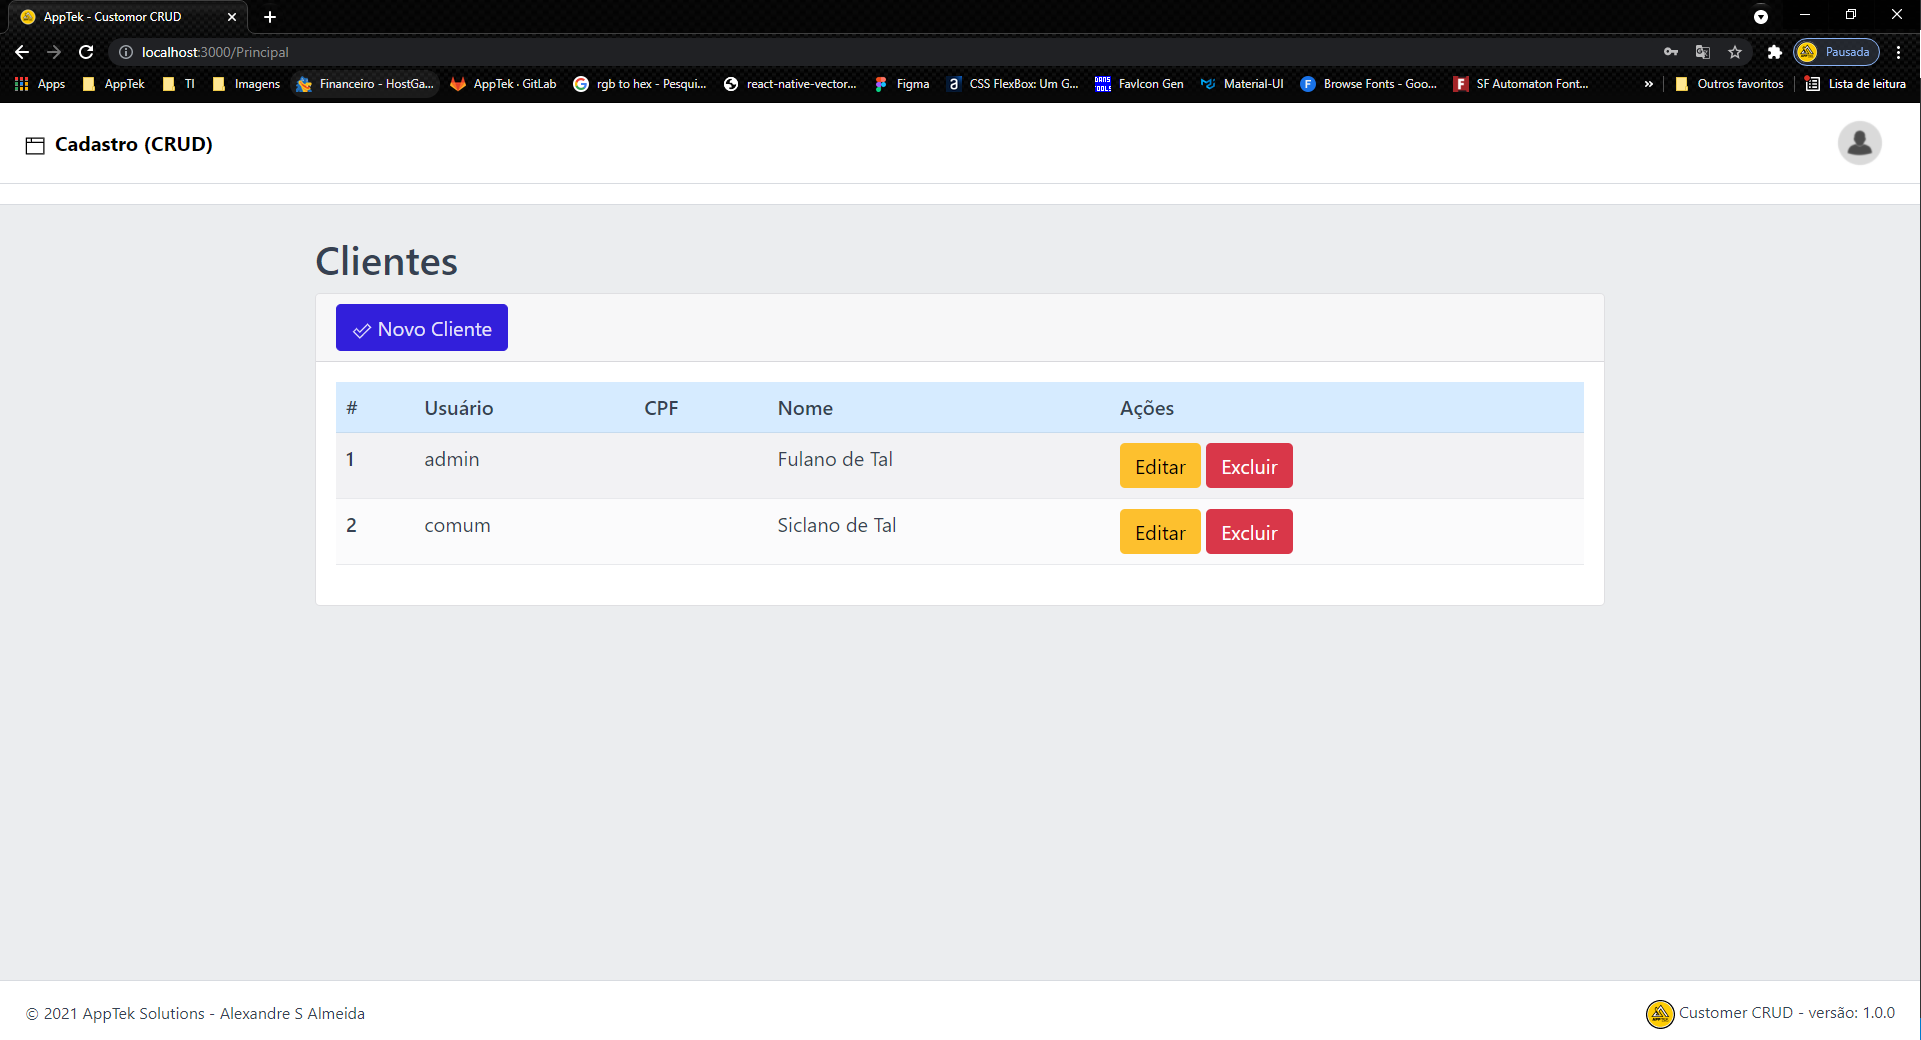
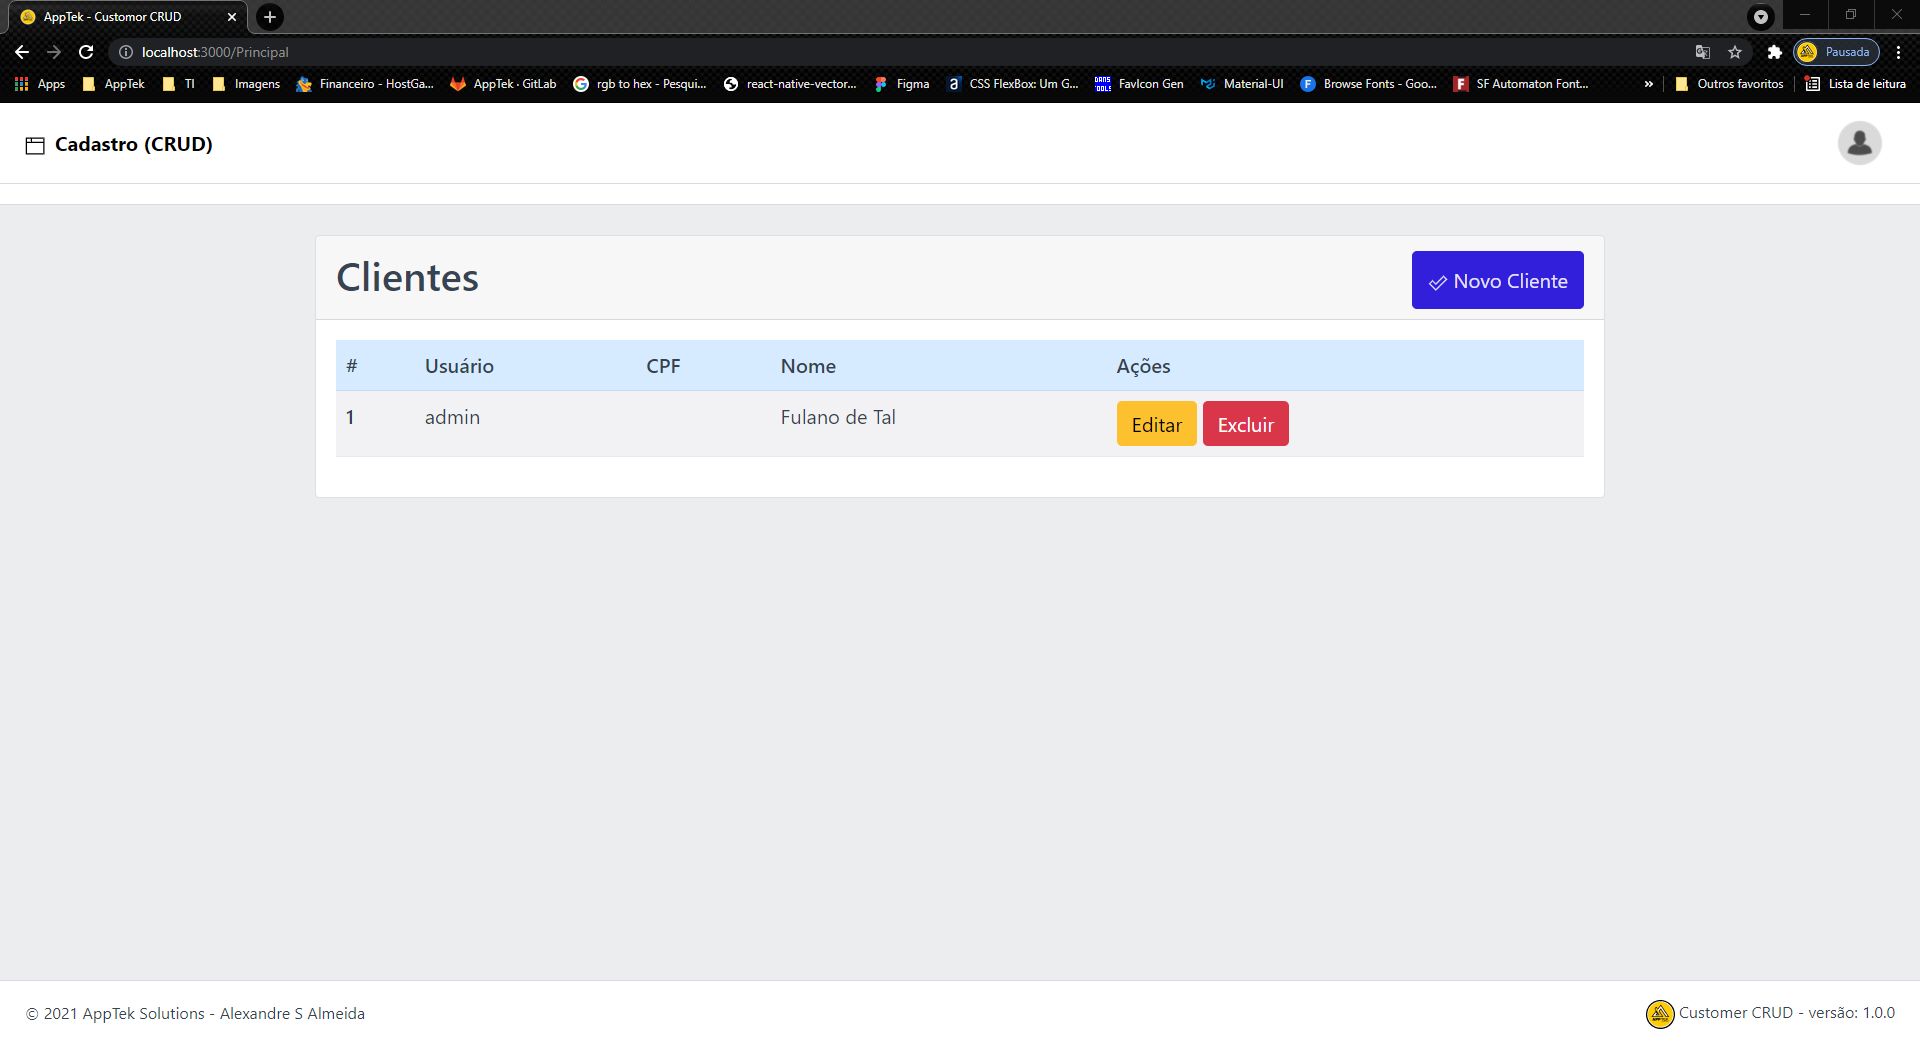
readme screen views project

diff --git a/src/views/principal/Principal.js b/src/views/principal/Principal.js
@@ -43,7 +43,9 @@ const Principal = (prop) => {
   const [loading, setLoading] = useState(false)
   const [msg, setMsg] = useState('')
   const [activeKey, setActiveKey] = useState(0)
-  const [validated, setValidated] = React.useState(false)
+  const [validated, setValidated] = useState(false)
+
+  const [action, setAction] = useState('list')
 
   const [user, setUser] = useState('')
   const [cpf, setCpf] = useState('')
@@ -160,164 +162,171 @@ const Principal = (prop) => {
           </CCard>
         </CCol>
       </CRow>
-      <br></br>
-      <CCard>
-        <CCardHeader
-          style={{ color: '#321FDB', fontWeight: 'bold', paddingTop: 20, paddingBottom: 17 }}
-        >
-          <CIcon name="cil-note-add" />
-          &nbsp; Informe os dados abaixo para inclusão de novo cliente
-        </CCardHeader>
-      </CCard>
 
-      <CAccordion>
-        <CAccordionItem>
-          <CAccordionHeader>
-            <CAccordionButton
-              collapsed={activeKey !== 1}
-              onClick={() => (activeKey === 1 ? setActiveKey(0) : setActiveKey(1))}
-            >
-              Dados Pessoais
-            </CAccordionButton>
-          </CAccordionHeader>
-          <CAccordionCollapse visible={activeKey === 1}>
-            <CAccordionBody>
-              <CForm
-                className="row g-3"
-                noValidate
-                validated={validated}
-                style={{
-                  display: 'flex',
-                  justifyContent: 'center',
-                  alignItems: 'center',
-                }}
-                onSubmit={handleSaveData}
+      {action === 'add' ||
+        (action === 'del' && (
+          <>
+            <br></br>
+            <CCard>
+              <CCardHeader
+                style={{ color: '#321FDB', fontWeight: 'bold', paddingTop: 20, paddingBottom: 17 }}
               >
-                <CCol md="4">
-                  <CFormLabel htmlFor="inputUsuario">Usuário</CFormLabel>
-                  <CInputGroup className="mb-3">
-                    <CInputGroupText>
-                      <CIcon name="cil-short-text" />
-                    </CInputGroupText>
-                    <CFormControl
-                      type="text"
-                      id="inputUsuario"
-                      placeholder="Informe o usuário"
-                      value={user}
-                      onChange={(e) => setUser(e.target.value)}
-                      required
-                    />
-                    <CFormFeedback invalid>Informe o Usuário</CFormFeedback>
-                  </CInputGroup>
-                </CCol>
-                <CCol md="4">
-                  <CFormLabel htmlFor="inputCpf">CPF</CFormLabel>
-                  <CInputGroup className="mb-3">
-                    <CInputGroupText>
-                      <CIcon name="cil-lock-locked" />
-                    </CInputGroupText>
-                    <CFormControl
-                      type="text"
-                      id="inputCpf"
-                      placeholder="Informe o CPF"
-                      value={cpf}
-                      onChange={(e) => setCpf(e.target.value)}
-                      required
-                    />
-                    <CFormFeedback invalid>Informe o CPF</CFormFeedback>
-                  </CInputGroup>
-                </CCol>
-                <CCol md="4">
-                  <CFormLabel htmlFor="inputRole">Perfil</CFormLabel>
-                  <CInputGroup className="mb-3">
-                    <CInputGroupText>
-                      <CIcon name="cil-user" />
-                    </CInputGroupText>
-                    <CFormSelect id="inputRole">
-                      <option>ADMIN</option>
-                      <option>COMUM</option>
-                    </CFormSelect>
-                  </CInputGroup>
-                </CCol>
-                <CCol xs="12">
-                  <CFormLabel htmlFor="inputNome">Nome</CFormLabel>
-                  <CInputGroup className="mb-3">
-                    <CInputGroupText>
-                      <CIcon name="cil-user" />
-                    </CInputGroupText>
-                    <CFormControl id="inputNome" placeholder="Pedro Paulo Matheus Jr..." />
-                  </CInputGroup>
-                </CCol>
-              </CForm>
-            </CAccordionBody>
-          </CAccordionCollapse>
-        </CAccordionItem>
-        <CAccordionItem>
-          <CAccordionHeader>
-            <CAccordionButton
-              collapsed={activeKey !== 2}
-              onClick={() => (activeKey === 2 ? setActiveKey(0) : setActiveKey(2))}
-            >
-              Endereços
-            </CAccordionButton>
-          </CAccordionHeader>
-          <CAccordionCollapse visible={activeKey === 2}>
-            <CAccordionBody>endereços aqui</CAccordionBody>
-          </CAccordionCollapse>
-        </CAccordionItem>
-        <CAccordionItem>
-          <CAccordionHeader>
-            <CAccordionButton
-              collapsed={activeKey !== 3}
-              onClick={() => (activeKey === 3 ? setActiveKey(0) : setActiveKey(3))}
-            >
-              Telefones
-            </CAccordionButton>
-          </CAccordionHeader>
-          <CAccordionCollapse visible={activeKey === 3}>
-            <CAccordionBody>telefones aqui</CAccordionBody>
-          </CAccordionCollapse>
-        </CAccordionItem>
-        <CAccordionItem>
-          <CAccordionHeader>
-            <CAccordionButton
-              collapsed={activeKey !== 3}
-              onClick={() => (activeKey === 3 ? setActiveKey(0) : setActiveKey(3))}
-            >
-              Emails
-            </CAccordionButton>
-          </CAccordionHeader>
-          <CAccordionCollapse visible={activeKey === 3}>
-            <CAccordionBody>
-              <strong>This is the third item`s accordion body.</strong> It is hidden by default,
-              until the collapse plugin adds the appropriate classes that we use to style each
-              element. These classes control the overall appearance, as well as the showing and
-              hiding via CSS transitions. You can modify any of this with custom CSS or overriding
-              our default variables. It´s also worth noting that just about any HTML can go within
-              the <code>.accordion-body</code>, though the transition does limit overflow.
-            </CAccordionBody>
-          </CAccordionCollapse>
-        </CAccordionItem>
-      </CAccordion>
+                <CIcon name="cil-note-add" />
+                &nbsp; Informe os dados abaixo para inclusão de novo cliente
+              </CCardHeader>
+            </CCard>
 
-      <CFooter
-        style={{
-          display: 'flex',
-          flexDirection: 'row',
-          justifyContent: 'space-between',
-          backgroundColor: '#394fbd',
-        }}
-      >
-        <CButton
-          color="primary"
-          className="px-4"
-          style={{ backgroundColor: '#203ABD' }}
-          onClick={handleSaveData}
-        >
-          Gravar Dados
-        </CButton>
-      </CFooter>
-      <br></br>
+            <CAccordion>
+              <CAccordionItem>
+                <CAccordionHeader>
+                  <CAccordionButton
+                    collapsed={activeKey !== 1}
+                    onClick={() => (activeKey === 1 ? setActiveKey(0) : setActiveKey(1))}
+                  >
+                    Dados Pessoais
+                  </CAccordionButton>
+                </CAccordionHeader>
+                <CAccordionCollapse visible={activeKey === 1}>
+                  <CAccordionBody>
+                    <CForm
+                      className="row g-3"
+                      noValidate
+                      validated={validated}
+                      style={{
+                        display: 'flex',
+                        justifyContent: 'center',
+                        alignItems: 'center',
+                      }}
+                      onSubmit={handleSaveData}
+                    >
+                      <CCol md="4">
+                        <CFormLabel htmlFor="inputUsuario">Usuário</CFormLabel>
+                        <CInputGroup className="mb-3">
+                          <CInputGroupText>
+                            <CIcon name="cil-short-text" />
+                          </CInputGroupText>
+                          <CFormControl
+                            type="text"
+                            id="inputUsuario"
+                            placeholder="Informe o usuário"
+                            value={user}
+                            onChange={(e) => setUser(e.target.value)}
+                            required
+                          />
+                          <CFormFeedback invalid>Informe o Usuário</CFormFeedback>
+                        </CInputGroup>
+                      </CCol>
+                      <CCol md="4">
+                        <CFormLabel htmlFor="inputCpf">CPF</CFormLabel>
+                        <CInputGroup className="mb-3">
+                          <CInputGroupText>
+                            <CIcon name="cil-lock-locked" />
+                          </CInputGroupText>
+                          <CFormControl
+                            type="text"
+                            id="inputCpf"
+                            placeholder="Informe o CPF"
+                            value={cpf}
+                            onChange={(e) => setCpf(e.target.value)}
+                            required
+                          />
+                          <CFormFeedback invalid>Informe o CPF</CFormFeedback>
+                        </CInputGroup>
+                      </CCol>
+                      <CCol md="4">
+                        <CFormLabel htmlFor="inputRole">Perfil</CFormLabel>
+                        <CInputGroup className="mb-3">
+                          <CInputGroupText>
+                            <CIcon name="cil-user" />
+                          </CInputGroupText>
+                          <CFormSelect id="inputRole">
+                            <option>ADMIN</option>
+                            <option>COMUM</option>
+                          </CFormSelect>
+                        </CInputGroup>
+                      </CCol>
+                      <CCol xs="12">
+                        <CFormLabel htmlFor="inputNome">Nome</CFormLabel>
+                        <CInputGroup className="mb-3">
+                          <CInputGroupText>
+                            <CIcon name="cil-user" />
+                          </CInputGroupText>
+                          <CFormControl id="inputNome" placeholder="Pedro Paulo Matheus Jr..." />
+                        </CInputGroup>
+                      </CCol>
+                    </CForm>
+                  </CAccordionBody>
+                </CAccordionCollapse>
+              </CAccordionItem>
+              <CAccordionItem>
+                <CAccordionHeader>
+                  <CAccordionButton
+                    collapsed={activeKey !== 2}
+                    onClick={() => (activeKey === 2 ? setActiveKey(0) : setActiveKey(2))}
+                  >
+                    Endereços
+                  </CAccordionButton>
+                </CAccordionHeader>
+                <CAccordionCollapse visible={activeKey === 2}>
+                  <CAccordionBody>endereços aqui</CAccordionBody>
+                </CAccordionCollapse>
+              </CAccordionItem>
+              <CAccordionItem>
+                <CAccordionHeader>
+                  <CAccordionButton
+                    collapsed={activeKey !== 3}
+                    onClick={() => (activeKey === 3 ? setActiveKey(0) : setActiveKey(3))}
+                  >
+                    Telefones
+                  </CAccordionButton>
+                </CAccordionHeader>
+                <CAccordionCollapse visible={activeKey === 3}>
+                  <CAccordionBody>telefones aqui</CAccordionBody>
+                </CAccordionCollapse>
+              </CAccordionItem>
+              <CAccordionItem>
+                <CAccordionHeader>
+                  <CAccordionButton
+                    collapsed={activeKey !== 3}
+                    onClick={() => (activeKey === 3 ? setActiveKey(0) : setActiveKey(3))}
+                  >
+                    Emails
+                  </CAccordionButton>
+                </CAccordionHeader>
+                <CAccordionCollapse visible={activeKey === 3}>
+                  <CAccordionBody>
+                    <strong>This is the third item`s accordion body.</strong> It is hidden by
+                    default, until the collapse plugin adds the appropriate classes that we use to
+                    style each element. These classes control the overall appearance, as well as the
+                    showing and hiding via CSS transitions. You can modify any of this with custom
+                    CSS or overriding our default variables. It´s also worth noting that just about
+                    any HTML can go within the <code>.accordion-body</code>, though the transition
+                    does limit overflow.
+                  </CAccordionBody>
+                </CAccordionCollapse>
+              </CAccordionItem>
+            </CAccordion>
+
+            <CFooter
+              style={{
+                display: 'flex',
+                flexDirection: 'row',
+                justifyContent: 'space-between',
+                backgroundColor: '#394fbd',
+              }}
+            >
+              <CButton
+                color="primary"
+                className="px-4"
+                style={{ backgroundColor: '#203ABD' }}
+                onClick={handleSaveData}
+              >
+                Gravar Dados
+              </CButton>
+            </CFooter>
+            <br></br>
+          </>
+        ))}
     </>
   )
 }
